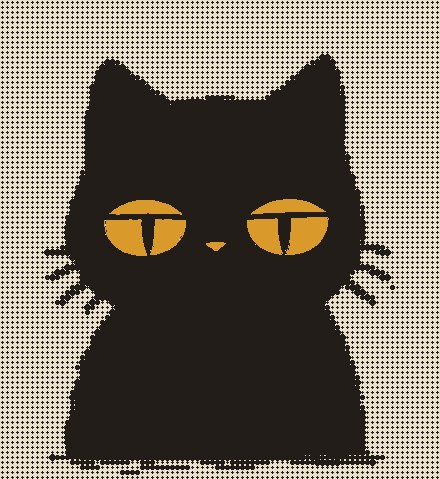
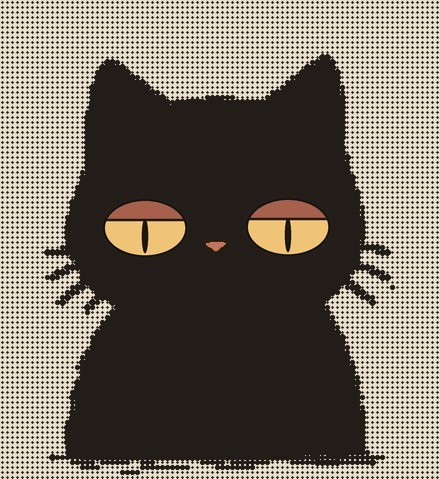
오프닝 호외 수배 사진: 눈꺼풀·눈·코 색을 지금 심묘와 같게
Claude-Session: https://claude.ai/code/session_01X1y5x5ur2CZT5SHiYxRsCA

diff --git a/proto/road/index.html b/proto/road/index.html
@@ -277,7 +277,7 @@ html.ph #eskip{top:10px;right:auto;left:10px}html.ph #ebtn{bottom:calc(5% + env(
     <div class="mh"><b>京城野錄</b><span>號 外</span></div>
     <h1 class="gap">고양이를 찾습니다</h1>
     <div class="row">
-      <figure style="margin:0"><div class="ph" id="ph"><img id="wimg" src="wanted.jpg" alt="망점으로 찍힌 까만 고양이 수배 사진, 눈만 꿀색"><i style="left:23.9%"></i><i style="left:52.7%"></i></div><figcaption>수배 사진 · 본사 식자실 앞에서</figcaption></figure>
+      <figure style="margin:0"><div class="ph" id="ph"><img id="wimg" src="wanted.jpg?v=4" alt="망점으로 찍힌 까만 고양이 수배 사진, 눈만 꿀색"><i style="left:23.9%"></i><i style="left:52.7%"></i></div><figcaption>수배 사진 · 본사 식자실 앞에서</figcaption></figure>
       <p class="gap">경성야록 식자실에서 한글 공부 부록의 자모표에 들어갈 낱자 활자 하나가 없어졌다. 없어진 것은 「ㄱ」. 가져간 것은 편집국을 제 집처럼 드나들던 까만 고양이로, 몸은 통통하고 눈은 꿀빛이며 언제나 표정이 없다. 기자들은 그를 그냥 「어이, 그 까만 것」이라 불렀다. 분한 편집국은 오늘 이 호외의 ㄱ 자리를 모두 비워 두기로 하였다. 고양이를 보신 분은 본사로 엽서를 보내 주시라.</p>
     </div>
     <div class="feat"><h2 class="gap">이런 고양이를 보시거든</h2><ol><li class="gap"><b>一</b>눈이 꿀빛이고 언제나 표정이 없음</li><li class="gap"><b>二</b>입에 작은 쇳조각 하나를 물었음</li><li class="gap"><b>三</b>불러도 오지 않음. 사람을 구경함</li></ol></div>
